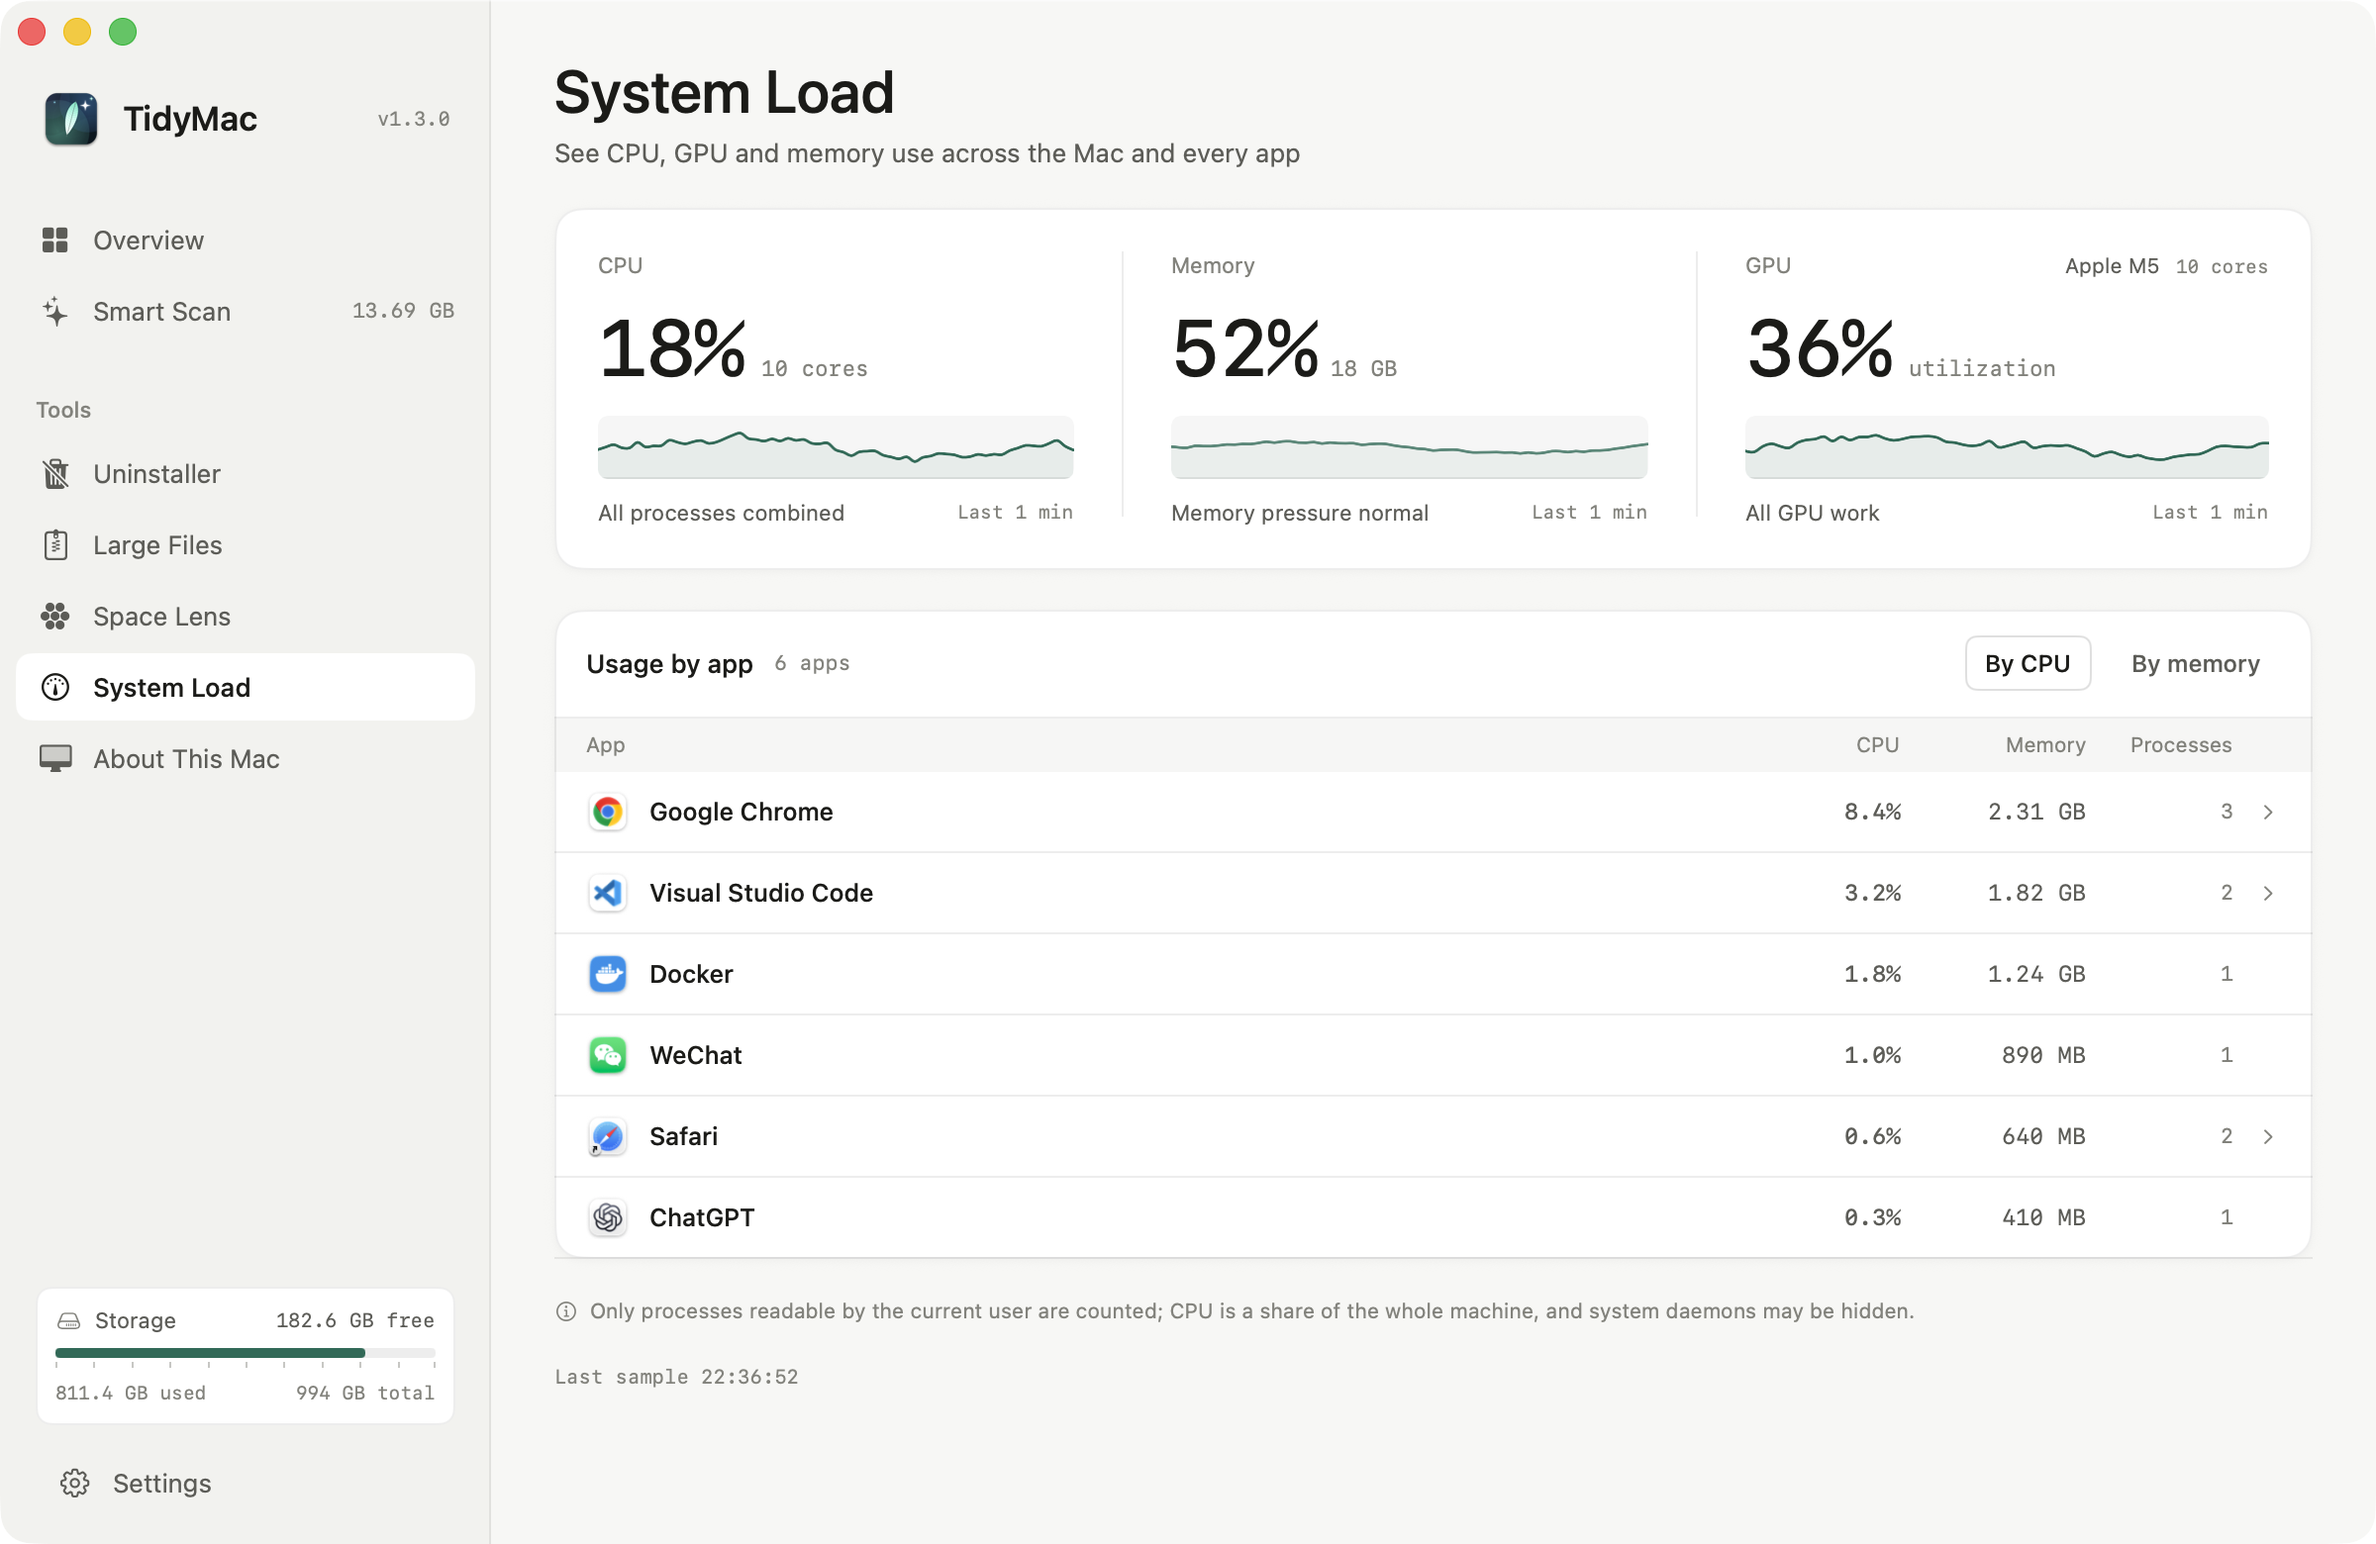
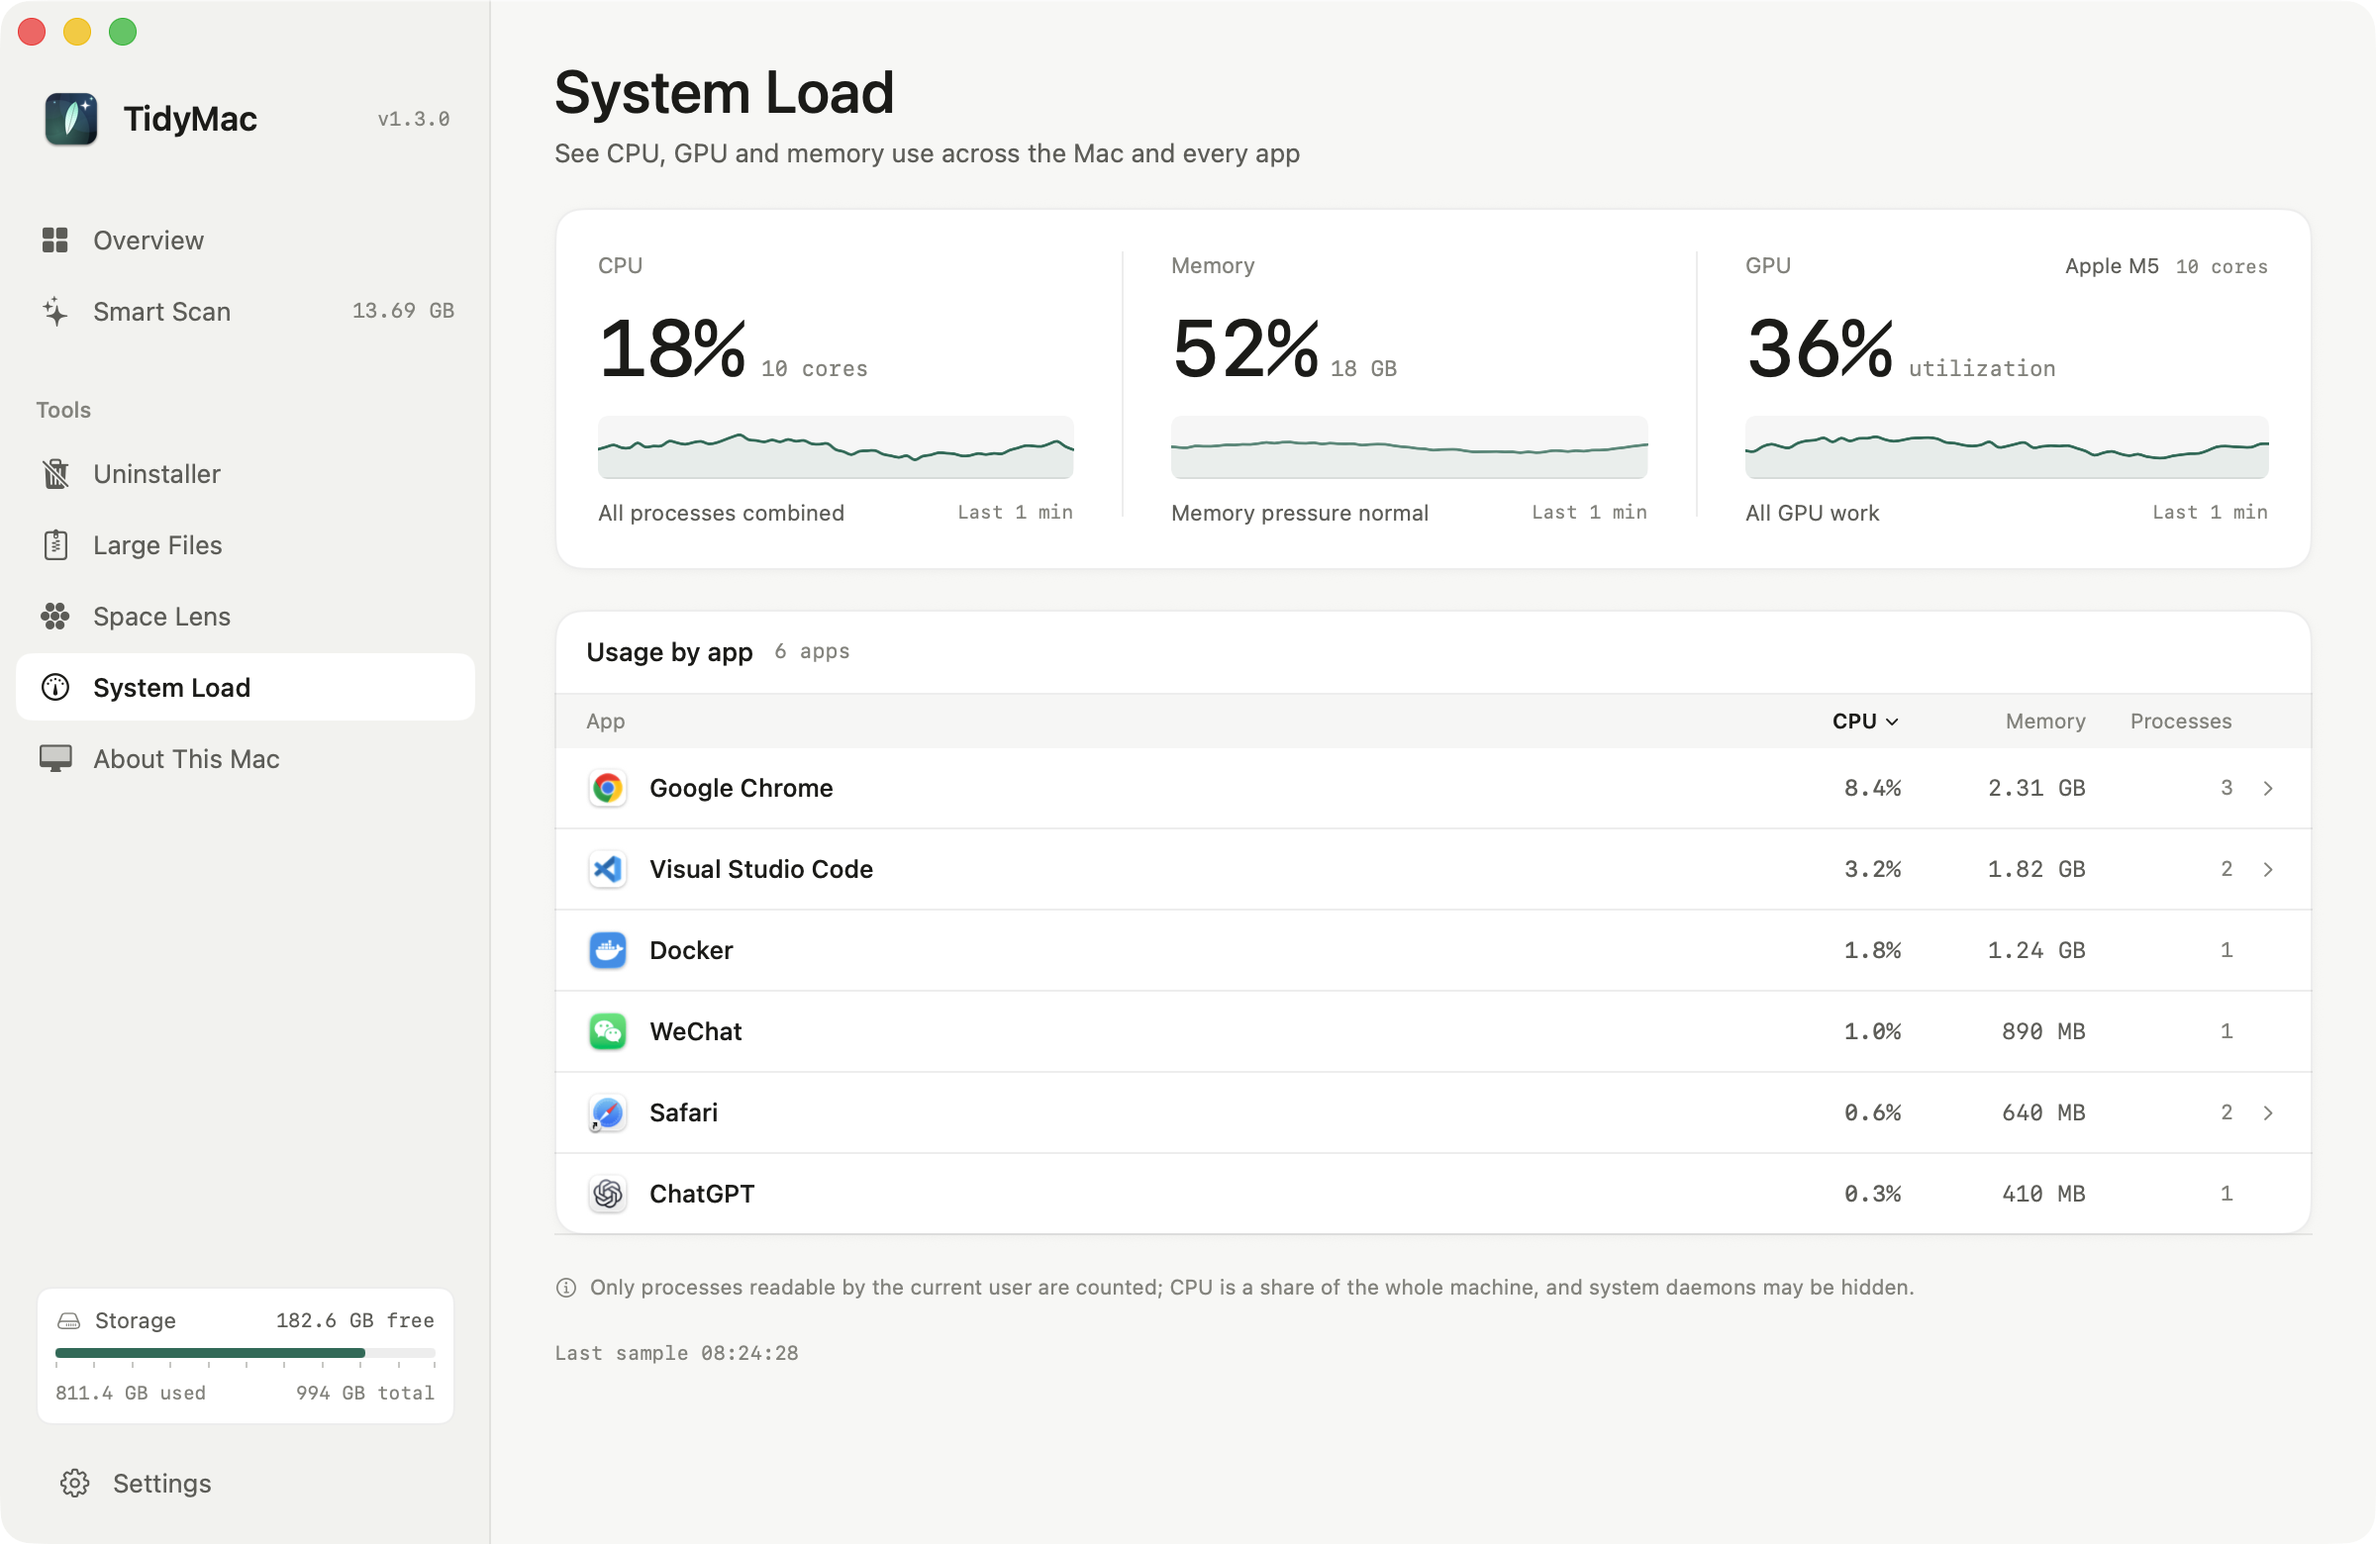
feat(ui): sort System Load apps from table headers

diff --git a/Sources/UI/SystemLoadPage.swift b/Sources/UI/SystemLoadPage.swift
@@ -296,11 +296,6 @@ struct SystemLoadPage: View {
                     .font(Theme.monoFont(10.5))
                     .foregroundStyle(Theme.textTertiary)
                 Spacer()
-                ForEach(LoadSort.allCases, id: \.self) { option in
-                    FilterPill(title: option.title, isSelected: sort == option) {
-                        sort = option
-                    }
-                }
             }
             .padding(.horizontal, 16)
             .padding(.vertical, 13)
@@ -335,10 +330,8 @@ struct SystemLoadPage: View {
         HStack(spacing: 10) {
             Text(L("应用"))
                 .frame(maxWidth: .infinity, alignment: .leading)
-            Text("CPU")
-                .frame(width: 64, alignment: .trailing)
-            Text(L("内存"))
-                .frame(width: 84, alignment: .trailing)
+            sortHeader("CPU", option: .cpu, width: 64)
+            sortHeader(L("内存"), option: .memory, width: 84)
             Text(L("进程"))
                 .frame(width: 64, alignment: .trailing)
             Color.clear.frame(width: 14)
@@ -348,6 +341,29 @@ struct SystemLoadPage: View {
         .padding(.horizontal, 16)
         .padding(.vertical, 7)
         .background(Theme.field.opacity(0.55))
+    }
+
+
+    private func sortHeader(_ title: String, option: LoadSort, width: CGFloat) -> some View {
+        let selected = sort == option
+        return Button {
+            sort = option
+        } label: {
+            HStack(spacing: 3) {
+                Text(title)
+                    .font(.system(size: 10.5, weight: selected ? .semibold : .regular))
+                    .foregroundStyle(selected ? Theme.textPrimary : Theme.textTertiary)
+                if selected {
+                    Image(systemName: "chevron.down")
+                        .font(.system(size: 7, weight: .semibold))
+                        .foregroundStyle(Theme.textPrimary)
+                }
+            }
+            .frame(width: width, alignment: .trailing)
+            .contentShape(Rectangle())
+        }
+        .buttonStyle(.plain)
+        .help(option.title)
     }
 
     private func appRow(_ usage: AppUsage) -> some View {
